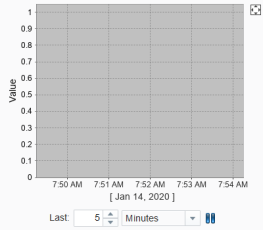
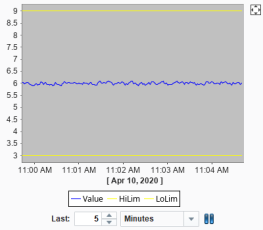
Implemented StandardTrend template for P_PIDE, P_VSD, P_ValveC, P_AIn. P_ValveC fpScripts.nav object updated to enable trend tab in popup

Changed region(s): [[0.0, 0.0, 0.943, 1.0], [0.6996, 0.1217, 0.73, 0.1522], [0.2433, 0.1217, 0.2738, 0.1522]]

diff --git a/jlbFP/ignition/script-python/fpScripts/nav/code.py b/jlbFP/ignition/script-python/fpScripts/nav/code.py
@@ -54,9 +54,6 @@ P_VSD = Nav(
 
 P_ValveC = Nav(
 	name='P_ValveC',
-	main=Main(
-		trends=False
-	),
 	advanced=Advanced(
 		engineering=3,
 		faults=0,
